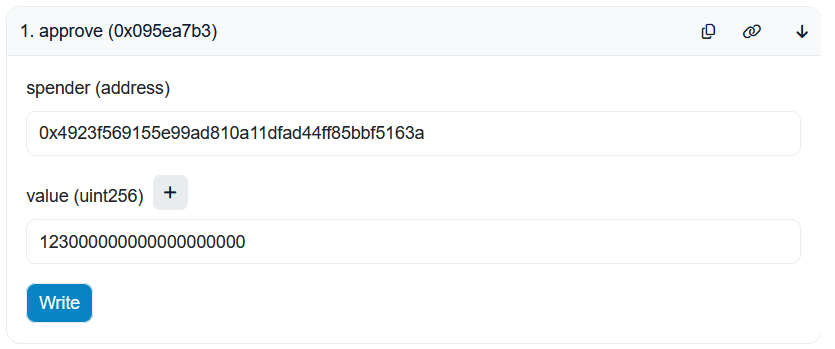
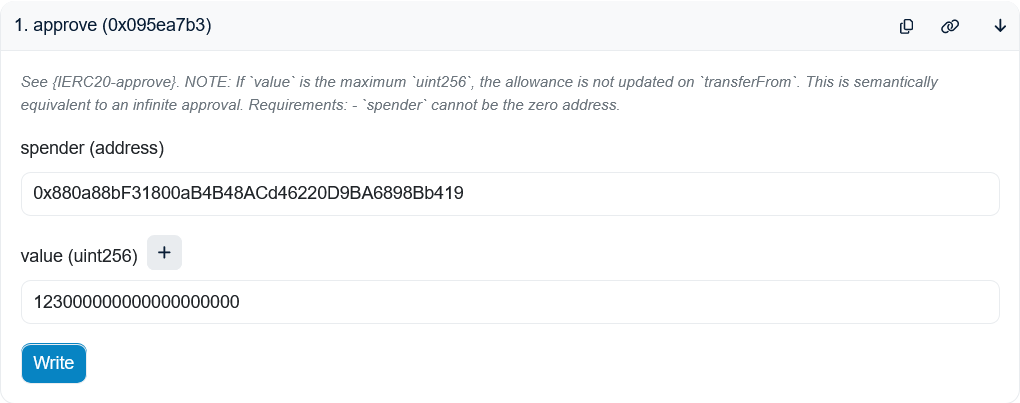
chore: update DSPay to mainnet

diff --git a/how_to/HOW_TO_FUND_A_WALLET_WITH_DSPAY.md b/how_to/HOW_TO_FUND_A_WALLET_WITH_DSPAY.md
@@ -1,24 +1,26 @@
 # How To fund a wallet with Dreamspace Pay
 
-In order to use the Space and Time chain, compute credits are required. This how-to walks through the steps to fund an account with compute credits using the Dreamspace Pay smart contract (`0x4923f569155e99ad810a11dfad44ff85bbf5163a`).
+In order to use the Space and Time chain, compute credits are required. This how-to walks through the steps to fund an account with compute credits using the Dreamspace Pay smart contract (`0x880a88bF31800aB4B48ACd46220D9BA6898Bb419`).
 
-Dreamspace Pay supports funding with many different tokens. In this example, we will use the `SXT` token (`0xC768a8F94dcb61a200C9d9B2adbe50B41A80B839`).
+Dreamspace Pay supports funding with many different tokens. In this example, we will use the `SXT` token (`0xE6Bfd33F52d82Ccb5b37E16D3dD81f9FFDAbB195`).
 
 ## Step 1: Approve Spend
 
-Call the [`approve`](https://sepolia.etherscan.io/address/0xC768a8F94dcb61a200C9d9B2adbe50B41A80B839#writeContract#F1) function on the SXT  contract.
-- `spender` should be the DSPay contract address: `0x4923f569155e99ad810a11dfad44ff85bbf5163a`
+Call the [`approve`](https://etherscan.io/address/0xE6Bfd33F52d82Ccb5b37E16D3dD81f9FFDAbB195#writeContract#F1) function on the SXT contract.
+
+- `spender` should be the DSPay contract address: `0x880a88bF31800aB4B48ACd46220D9BA6898Bb419`
 - `value` should the the amount to be spent. Because SXT token has 18 decimals, 123 SXT should be entered as `123000000000000000000`.
 
 ![Approve Spend](./doc_assets/etherscan_approve_dspay_example.png)
 
 ## Step 2: Send Funds
 
-Call the [`sendWithCallback`](https://sepolia.etherscan.io/address/0x4923f569155e99ad810a11dfad44ff85bbf5163a#writeContract#F14) function on the DSPay contract. (Do NOT use `send`.)
-- `asset` should be the SXT token: `0xC768a8F94dcb61a200C9d9B2adbe50B41A80B839`.
+Call the [`sendWithCallback`](https://etherscan.io/address/0x880a88bF31800aB4B48ACd46220D9BA6898Bb419#writeContract#F14) function on the DSPay contract. (Do NOT use `send`.)
+
+- `asset` should be the SXT token: `0xE6Bfd33F52d82Ccb5b37E16D3dD81f9FFDAbB195`.
 - `amount` should be the amount to be spent. This is the same as the `value` in the approve.
 - `onBehalfOf` should be the 32 byte hex address to be funded. Be sure to use the 32 byte format of your address. See the ["How To convert between address formats"](./HOW_TO_CONVERT_BETWEEN_ADDRESS_FORMATS.md) for more details
-- `merchant` should be the SXT Chain merchant address, which is `0x22fc143804cD57577d58B98b487AAFD6Dd5E0aAC`.
+- `merchant` should be the SXT Chain merchant address, which is `0xff0C0BeC16A1A7b1A1fF031a8a59b322159094C9`.
 - `memo` can be anything. `0x` is fine.
[1 lines of base64/hex data omitted]
 - `callbackData` is ignored. `0x` is fine.
